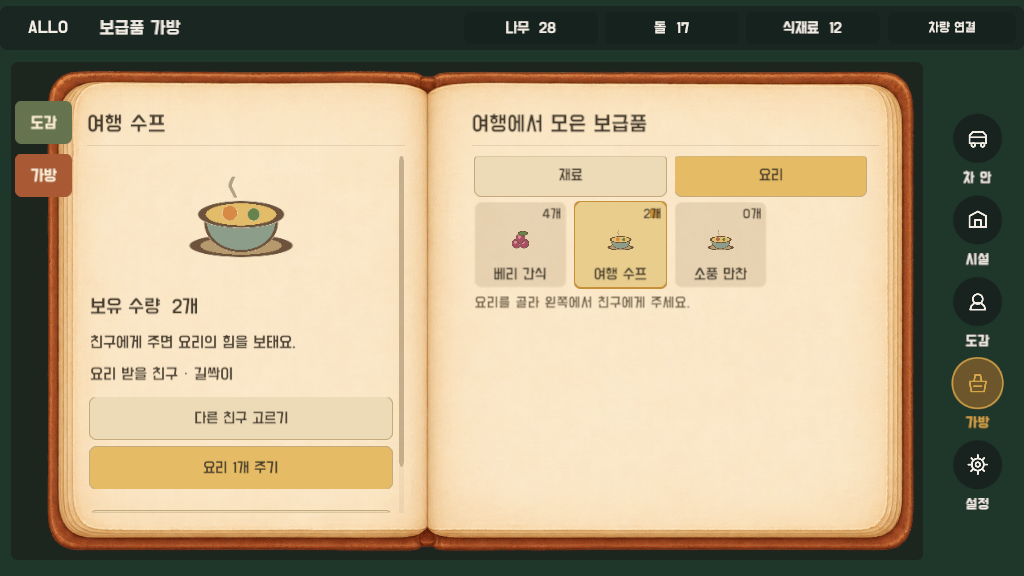
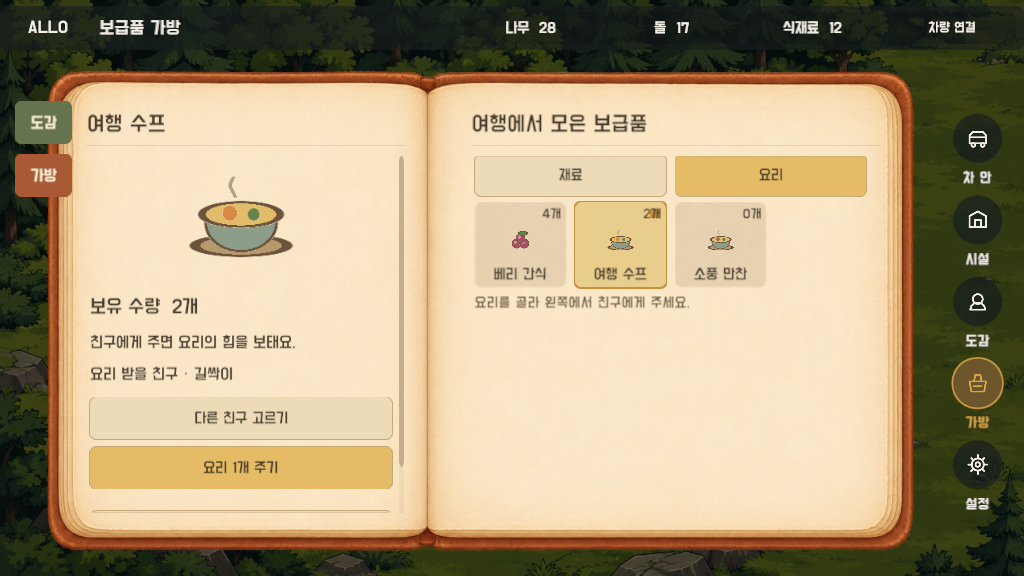
fix(ui): dim village backdrop behind collection books

diff --git a/unity/allo_explore/Assets/Scripts/App/AppUi.cs b/unity/allo_explore/Assets/Scripts/App/AppUi.cs
@@ -9,7 +9,7 @@ namespace Allo.App
     /// Landscape application chrome. Game state is owned by the host, never by this view.
     public sealed partial class AppUi : MonoBehaviour
     {
-        RectTransform _safe, _content;
+        RectTransform _safe, _content, _bookBackdrop;
         bool _lastStoryUiBlocked, _lastLearningUiBlocked;
         public bool CabinGesturesBlocked => StoryUiBlocked || _nativeSpeechHidden || _state?.learning?.recording == true;
         public bool StoryUiBlocked => View == "cabin" && (_speechDrawer || _zoneDrawer || _confirmAction != null);
@@ -110,6 +110,19 @@ namespace Allo.App
             var scaler = canvasGo.GetComponent<CanvasScaler>(); scaler.uiScaleMode = CanvasScaler.ScaleMode.ScaleWithScreenSize;
             scaler.referenceResolution = new Vector2(1600, 720); scaler.matchWidthOrHeight = 1;
             _safe = Rect("Safe area", canvasGo.transform); Stretch(_safe);
+            _bookBackdrop = Rect("Camp reading backdrop", canvasGo.transform); Stretch(_bookBackdrop);
+            _bookBackdrop.SetAsFirstSibling();
+            var landscape = Rect("Reading village landscape", _bookBackdrop); Stretch(landscape);
+            var landscapeImage = landscape.gameObject.AddComponent<RawImage>();
+            landscapeImage.texture = Resources.Load<Texture2D>("VillageArt/background");
+            landscapeImage.color = new Color(.45f, .45f, .45f, 1); landscapeImage.raycastTarget = false;
+            if (landscapeImage.texture != null)
+            {
+                var fit = landscape.gameObject.AddComponent<AspectRatioFitter>();
+                fit.aspectMode = AspectRatioFitter.AspectMode.EnvelopeParent;
+                fit.aspectRatio = (float)landscapeImage.texture.width / landscapeImage.texture.height;
+            }
+            _bookBackdrop.gameObject.SetActive(false);
             var header = Surface("Compact application HUD", _safe, new Color(.07f, .12f, .10f, .68f), false);
             Stretch(header, 0, -62, 0, -8, new Vector2(0, 1), Vector2.one);
             var crest = Button(header, "ALLO", () => Navigate("home"), Color.clear, 40, true, 24);
@@ -176,6 +189,7 @@ namespace Allo.App
         void UpdateChrome()
         {
             var view = View;
+            _bookBackdrop.gameObject.SetActive(view == "dex" || view == "inventory");
             var emptyCabin = view == "cabin" && _state != null && _state.ready && !_state.connected;
             _title.transform.parent.gameObject.SetActive(true);
             _nav["cabin"].transform.parent.gameObject.SetActive(true);

diff --git a/unity/allo_explore/Assets/Scripts/App/AppUiBook.cs b/unity/allo_explore/Assets/Scripts/App/AppUiBook.cs
@@ -14,8 +14,6 @@ namespace Allo.App
 
         void CollectionBook(string leftTitle, string rightTitle, out RectTransform left, out RectTransform right)
         {
-            var shade = Surface("Reading backdrop", _content, new Color(.10f, .14f, .11f, .88f), false);
-            Stretch(shade);
             var book = Rect("Collection book", _content); Stretch(book, 34, 0, 0, 0);
             var artwork = Rect("Book art", book); Stretch(artwork);
             var image = artwork.gameObject.AddComponent<RawImage>();

diff --git a/docs/design/book-ui/DESIGN.md b/docs/design/book-ui/DESIGN.md
@@ -87,7 +87,7 @@ The UI is landscape and uses a height-matched 1600×720 reference canvas (`match
 
 ## Elevation & Depth
 
-Depth comes from the open-book illustration, spine, page edges and a dimmed reading backdrop. Content surfaces remain restrained and rely on tonal contrast and fine outlines rather than layered card shadows.
+Depth comes from the open-book illustration, spine and page edges. Behind the book, the same VillageArt/background landscape used by the camp fills the entire canvas with aspect-cover scaling and a 45% RGB tint. Only dex and inventory show this darkened landscape; the HUD and navigation remain above it at normal brightness. Content surfaces remain restrained and rely on tonal contrast and fine outlines rather than layered card shadows.
 
 ## Shapes
 
